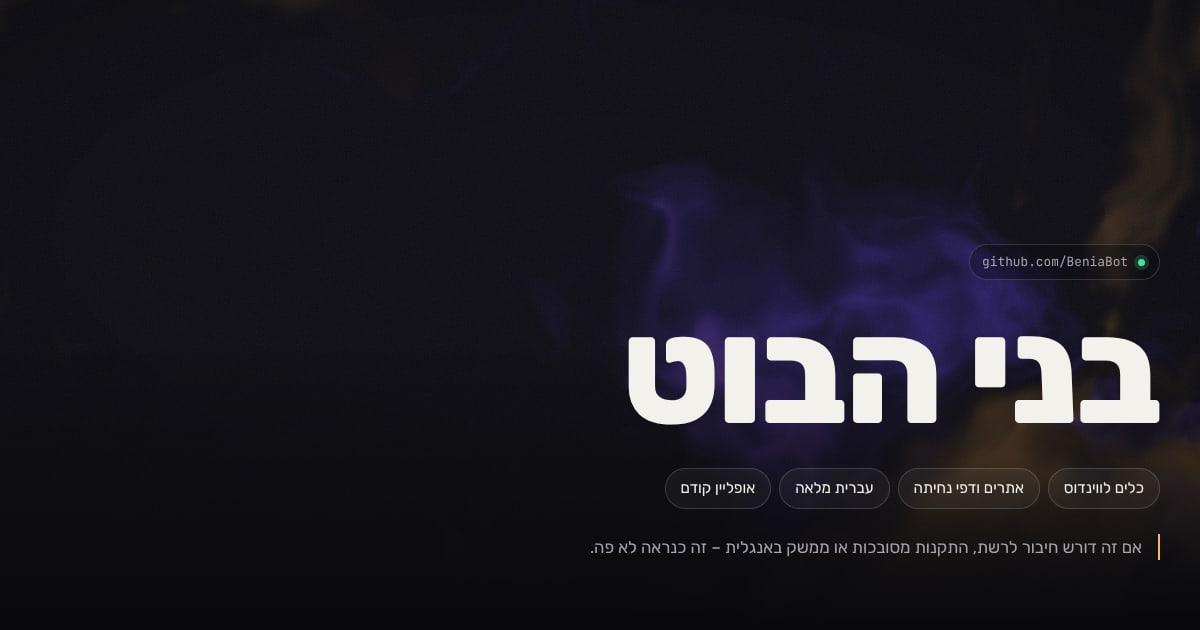
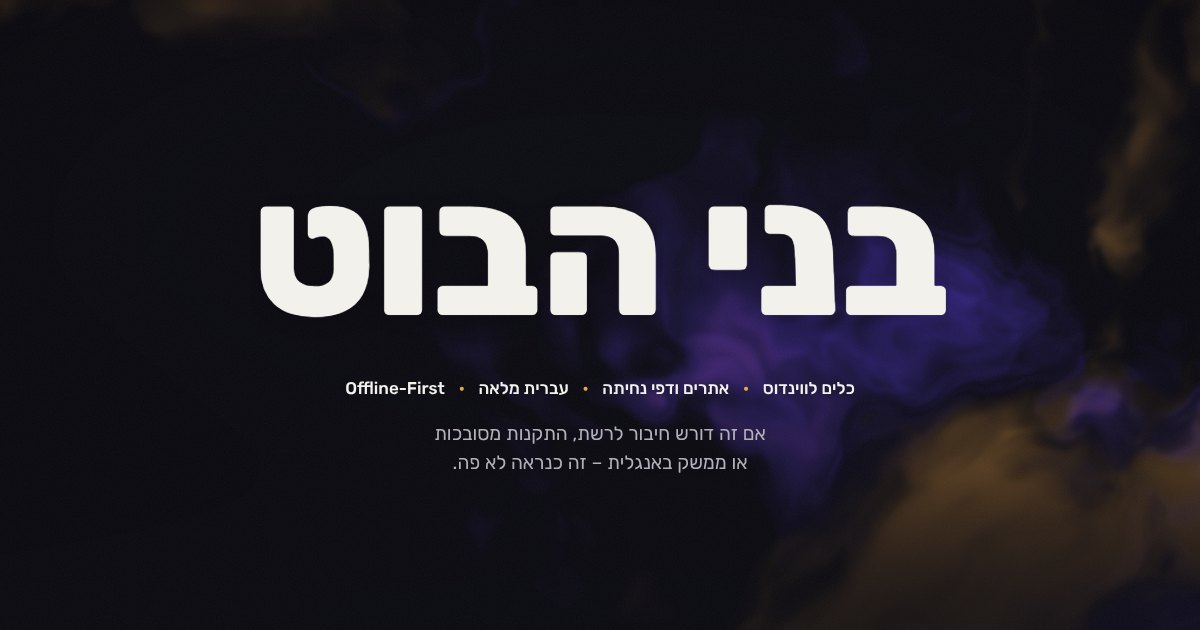
תמונת תצוגה מקדימה מהעיצוב החדש
og.jpg צולמה מחדש מהפתיחה הנוכחית ("Offline-First" במקום "אופליין קודם"), ותיאור הדף מדבר באותה לשון.

Claude-Session: https://claude.ai/code/session_013vPH1tgzRZfuagahoPRmsz

diff --git a/site/index.html b/site/index.html
@@ -4,14 +4,14 @@
 <meta charset="utf-8">
 <meta name="viewport" content="width=device-width, initial-scale=1, viewport-fit=cover">
 <title>בני הבוט · BeniaBot – כלים לווינדוס, אתרים ודפי נחיתה</title>
-<meta name="description" content="כלים לווינדוס, אתרים ודפי נחיתה ופרויקטים ציניים שנבנו באותה קפדנות. עברית מלאה, קודם כול אופליין, הכול בוויב קודינג.">
+<meta name="description" content="כלים לווינדוס, אתרים ודפי נחיתה ופרויקטים ציניים שנבנו באותה קפדנות. עברית מלאה, Offline-First, הכול בוויב קודינג.">
 <meta name="theme-color" content="#09090c">
 <meta name="color-scheme" content="dark">
 <link rel="canonical" href="https://beniabot.github.io/BeniaBot/">
 <meta property="og:type" content="website">
 <meta property="og:url" content="https://beniabot.github.io/BeniaBot/">
 <meta property="og:title" content="בני הבוט · BeniaBot">
-<meta property="og:description" content="כלים לווינדוס, אתרים ודפי נחיתה ופרויקטים ציניים. עברית מלאה, קודם כול אופליין, הכול בוויב קודינג.">
+<meta property="og:description" content="כלים לווינדוס, אתרים ודפי נחיתה ופרויקטים ציניים. עברית מלאה, Offline-First, הכול בוויב קודינג.">
 <meta property="og:image" content="https://beniabot.github.io/BeniaBot/og.jpg">
 <meta property="og:image:width" content="1200">
 <meta property="og:image:height" content="630">
